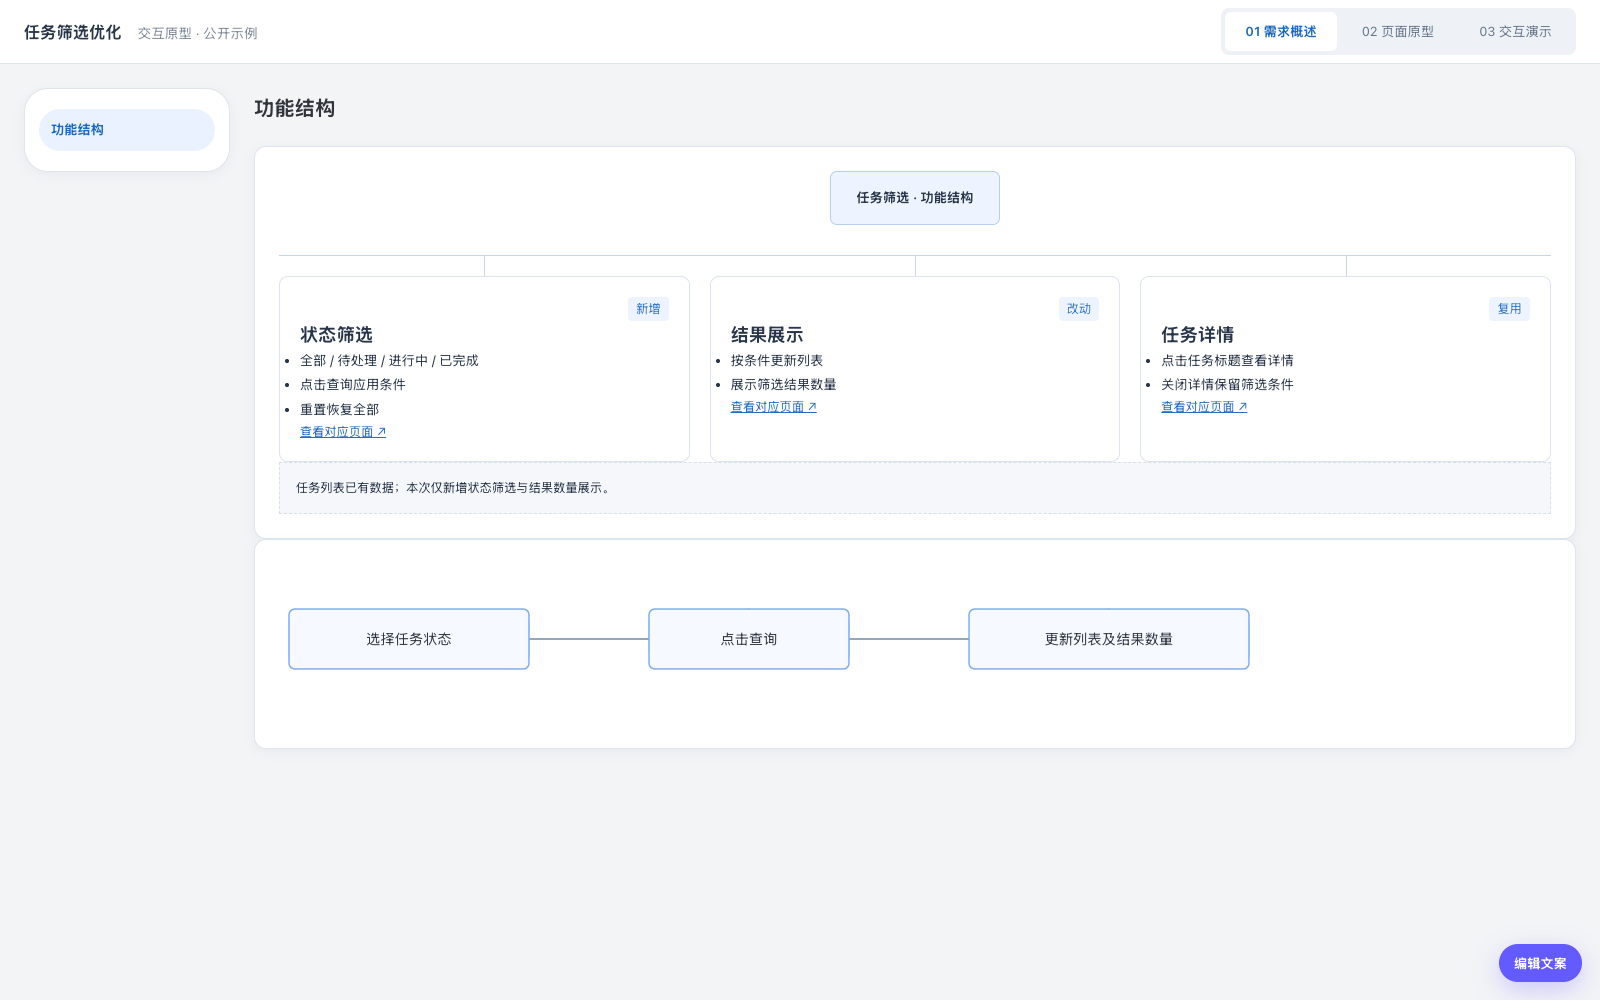
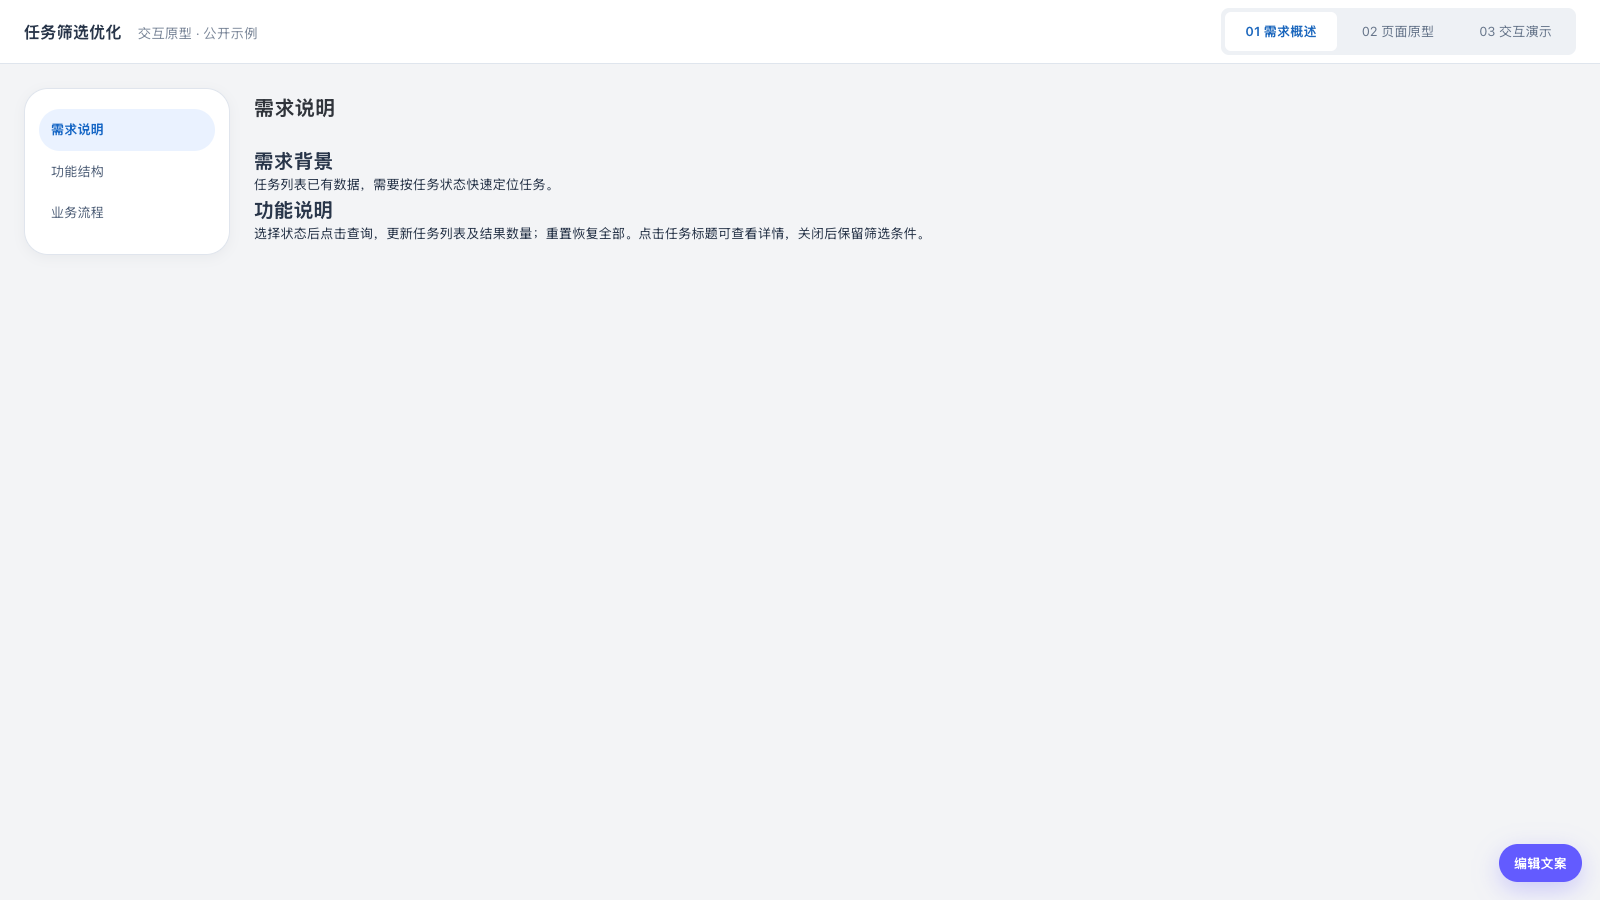
Update example requirements navigation and screenshot

diff --git a/examples/task-filter.html b/examples/task-filter.html
@@ -1318,7 +1318,9 @@ html{scroll-padding-top:88px}body{display:block!important;padding:0!important;ma
 <nav data-review-nav="static" hidden><a href="#static-boards" data-review-link="static-boards">页面与关键状态</a></nav>
 <nav data-review-nav="demo" hidden><a href="#section-entry" data-review-link="section-entry">页面入口</a><!-- 仅保留必要页面/角色入口 --></nav></aside>
 <main class="review-content"><h1 class="review-heading" data-review-heading></h1>
-<section id="requirements" data-review-panel="requirements" data-review-title="功能结构"><div id="features"></div><div id="flow-fixture" class="review-flow"></div></section>
+<section id="requirements" data-review-panel="requirements" data-review-title="需求说明"><h2>需求背景</h2><p>任务列表已有数据，需要按任务状态快速定位任务。</p><h2>功能说明</h2><p>选择状态后点击查询，更新任务列表及结果数量；重置恢复全部。点击任务标题可查看详情，关闭后保留筛选条件。</p></section>
+<section id="feature-structure" data-review-panel="requirements" data-review-title="功能结构"><div id="features"></div></section>
+<section id="business-flow" data-review-panel="requirements" data-review-title="业务流程"><div id="flow-fixture" class="review-flow"></div></section>
 <section id="static-boards" data-review-panel="static" data-review-title="页面原型"><div id="board-fixture"></div></section>
 <section id="section-entry" data-review-panel="demo" data-review-title="任务列表"><div class="review-page-row"><div class="review-product-stage"><div class="prototype-viewport" data-device="desktop" id="live-fixture" style="width:100%;min-height:540px"></div></div><aside class="prd-panel"><h3>功能说明</h3><p data-proto-edit="description.fixture">按任务状态筛选列表，快速定位待处理事项。</p><h3>逻辑说明</h3><p>默认展示全部任务。选择状态后点击查询，更新列表及结果数量；重置恢复全部。</p><h3>交互说明</h3><p>点击任务标题查看详情；关闭后保留当前筛选条件。</p><h3>备注</h3><p>全部为虚构数据；演示不连接业务服务。</p></aside></div></section>
 </main></div>

diff --git a/README.md b/README.md
@@ -6,9 +6,9 @@
 
 以下截图来自仓库内可运行的[任务筛选示例](examples/task-filter.html)，全部使用虚构数据。下载 HTML 后用浏览器打开，可切换板块、筛选任务、查看详情、编辑文案和导出评审版；对应[示例 PRD](examples/PRD.md)一并提供。
 
-### 需求概述：功能结构与变更范围
+### 需求概述：需求说明、功能结构与业务流程
 
-![需求概述：功能结构、变更标签与流程](docs/images/01-requirements.png)
+![需求概述：需求说明与完整目录](docs/images/01-requirements.png)
 
 ### 页面原型：固定画板与操作连线
 
